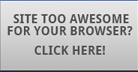
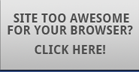
Updated buttons + bugfix

diff --git a/war/backupsite/activioverview.html b/war/backupsite/activioverview.html
@@ -122,7 +122,8 @@
 						<td class="ActiOverviewLoc">@Alma3</td>
 						<td class="ActiOverviewInschr">-</td>
 					</tr>
-					<tr class="ActiOverviewAlt" onclick="document.location = 'randanimatie.html'">
+<!-- 					<tr class="ActiOverviewAlt" onclick="document.location = 'randanimatie.html'"> -->
+					<tr class="ActiOverviewAltNoPointer">
 						<td class="ActiOverviewHour">11:00 - 21:00</td>
 						<td class="ActiOverviewAct">Randanimatie</td>
 						<td class="ActiOverviewLoc">@Alma3</td>
@@ -183,7 +184,8 @@
 				<td class="ActiWrapperDay">Dinsdag</td>
 				<td class="ActiWrapperSchedule">
 					<table>
-					<tr class="ActiOverview" onclick="document.location = 'randanimatie.html'">
+<!-- 					<tr class="ActiOverview" onclick="document.location = 'randanimatie.html'"> -->
+					<tr class="ActiOverviewNoPointer">
 						<td class="ActiOverviewHour">10:00 - 19:00</td>
 						<td class="ActiOverviewAct">Randanimatie</td>
 						<td class="ActiOverviewLoc">@Alma3</td>

diff --git a/war/delta.html b/war/delta.html
@@ -165,7 +165,8 @@
 					<td class="ActiOverviewLoc">@Alma3</td>
 					<td class="ActiOverviewInschr">-</td>
 				</tr>
-				<tr class="ActiOverviewAlt" onclick="document.location = '#/randanimatie'">
+<!-- 				<tr class="ActiOverviewAlt" onclick="document.location = '#/randanimatie'"> -->
+				<tr class="ActiOverviewAltNoPointer">
 					<td class="ActiOverviewHour">11:00 - 21:00</td>
 					<td class="ActiOverviewAct">Randanimatie</td>
 					<td class="ActiOverviewLoc">@Alma3</td>
@@ -226,7 +227,8 @@
 			<td class="ActiWrapperDay">Dinsdag</td>
 			<td class="ActiWrapperSchedule">
 				<table>
-				<tr class="ActiOverview" onclick="document.location = '#/randanimatie'">
+<!-- 				<tr class="ActiOverview" onclick="document.location = '#/randanimatie'"> -->
+				<tr class="ActiOverviewNoPointer">
 					<td class="ActiOverviewHour">10:00 - 19:00</td>
 					<td class="ActiOverviewAct">Randanimatie</td>
 					<td class="ActiOverviewLoc">@Alma3</td>

diff --git a/war/backupsite/overzicht.html b/war/backupsite/overzicht.html
@@ -67,5 +67,20 @@
 			<img src="../images/delta_white2.png"></img>
 		</div>
 
+		<div class="fallback-message" id="overview-message" style="display:block; text-align:center;">
+			<p>
+				Je bekijkt momenteel de <b>eenvoudigere versie</b> van de website.
+				Om de volledige versie te bekijken word je aangeraden om <b>Chrome</b>
+				of <b>Safari</b> te gebruiken.
+			</p>
+
+			<div id="logos">
+				<a href="http://www.google.com/chrome"><img
+					src="../images/chrome_logo.png" alt="Chrome" width="100" /></a> <a
+					href="http://www.apple.com/safari"><img
+					src="../images/safari_logo.png" alt="Safari" width="100" /></a>
+			</div>
+		</div>
+
 	</div>
 </body>

diff --git a/war/css/custom.css b/war/css/custom.css
@@ -8,6 +8,7 @@
     position: relative;
     z-index: 1000;
     text-align: center;
+    min-width: 1075px;
 }
 
 /* The button container */
@@ -451,7 +452,6 @@ input {
 #concert-schedule {
 	margin-left: 200px;
 }
-
 
 .backupbutton {
 	position: absolute;
